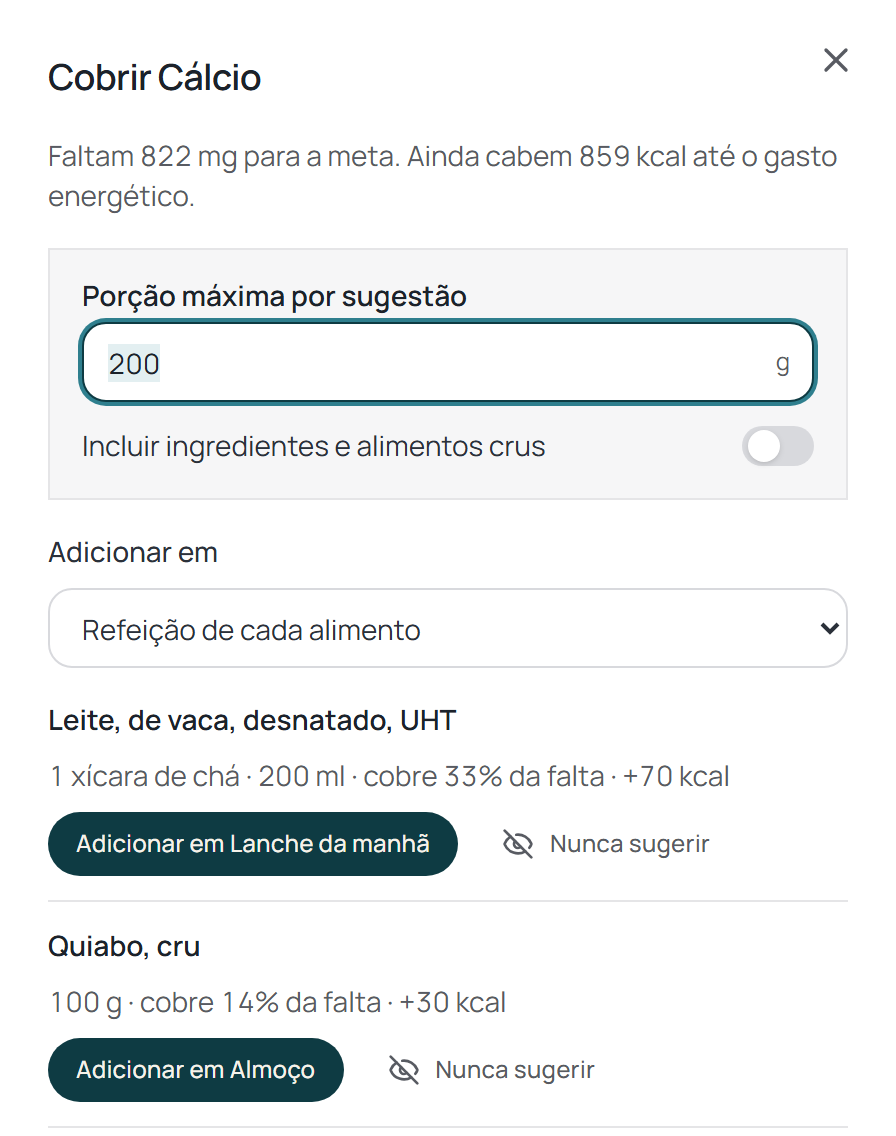
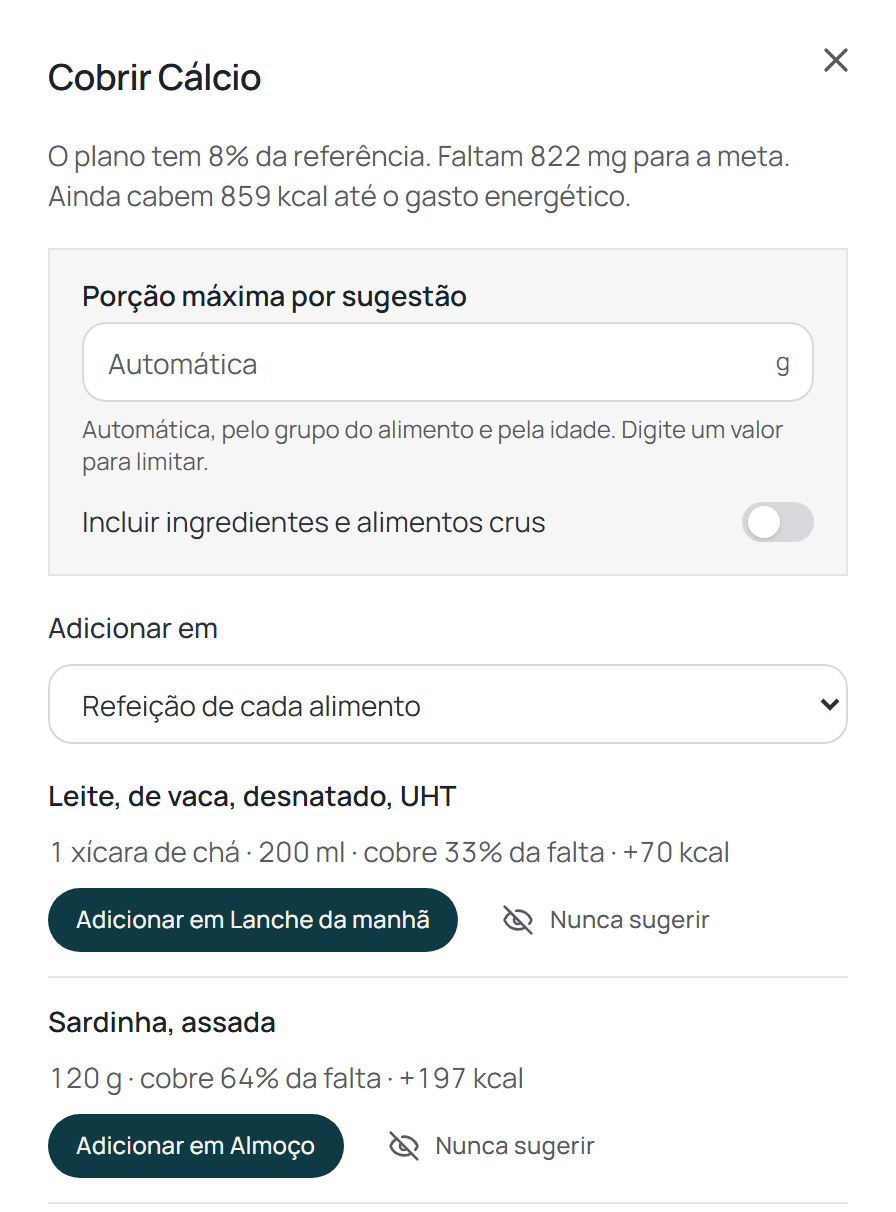
chore(landing): captura do Cobrir da gaveta atual, sem quiabo cru
A vitrine do diferencial mostrava "Quiabo, cru · 100 g" e a gaveta
antiga, sem "O plano tem N% da referência" (N3). As capturas foram
refeitas da gaveta de agora (D-487): porção automática, "O plano tem 8%
da referência", leite desnatado no lanche e sardinha assada no almoço.
O quiabo cru (C.1 da parceira, só existe cru na base) sai pelo "Nunca
sugerir" da própria gaveta no roteiro, sem foco nem cursor na foto. O
roteiro diz o tamanho de cada recorte, e a landing reserva 448 × 606; um
teste confere o tamanho do PNG e o texto alternativo (CA-1337).

diff --git a/src/ui/publico/TelaInicio.test.tsx b/src/ui/publico/TelaInicio.test.tsx
@@ -189,6 +189,19 @@ describe('TelaInicio (spec site-publico-profissional, textos da spec textos-e-pr
     expect(roteiro).toMatch(/'Café da manhã'/)
   })
 
+  it('CA-1337 (correção C, D-487): a captura do Cobrir não mostra alimento cru que se come cozido, e o tamanho reservado é o do arquivo', () => {
+    montar()
+    const capturas = screen.getAllByAltText(/botão Cobrir/)
+    for (const img of capturas) expect(img.getAttribute('alt')).not.toMatch(/quiabo|cru/i)
+    // O PNG é em 2x: largura e altura do arquivo são o dobro das reservadas na página (sem pulo de layout).
+    for (const tema of ['claro', 'escuro']) {
+      const png = readFileSync(join(process.cwd(), 'public', 'imagens', `cobrir-${tema}.png`))
+      const [img] = capturas
+      expect(png.readUInt32BE(16), tema).toBe(Number(img?.getAttribute('width')) * 2)
+      expect(png.readUInt32BE(20), tema).toBe(Number(img?.getAttribute('height')) * 2)
+    }
+  })
+
   it('CA-1177: cada informação uma vez, uma pergunta só, sem comparação com empresa, promessa clínica nem termo antigo', () => {
     montar()
     const vezes = (trecho: string) => texto().split(trecho).length - 1

diff --git a/src/ui/publico/TelaInicio.tsx b/src/ui/publico/TelaInicio.tsx
@@ -47,10 +47,11 @@ const PARTES: readonly Parte[] = [
       'As sugestões vêm de grupos diferentes e respeitam as restrições do paciente. Se nem uma porção realista fecha a diferença, a sugestão mostra quanto ela cobre. Você escolhe, e o alimento entra na refeição.',
     ],
     captura: 'cobrir',
-    // Correção A (D-438): capturas refeitas depois das porções realistas e da refeição de cada alimento.
+    // Correção A (D-438): capturas refeitas depois das porções realistas e da refeição de cada alimento. Correção C
+    // (D-487): de novo, com a porção automática, sem alimento cru que se come cozido.
     largura: 448,
-    altura: 568,
-    alt: 'Tela do botão Cobrir sugerindo leite desnatado no lanche e quiabo no almoço para completar o cálcio.',
+    altura: 606,
+    alt: 'Tela do botão Cobrir sugerindo leite desnatado no lanche e sardinha assada no almoço para completar o cálcio.',
   },
   {
     titulo: 'Acompanhe o paciente entre as consultas',
